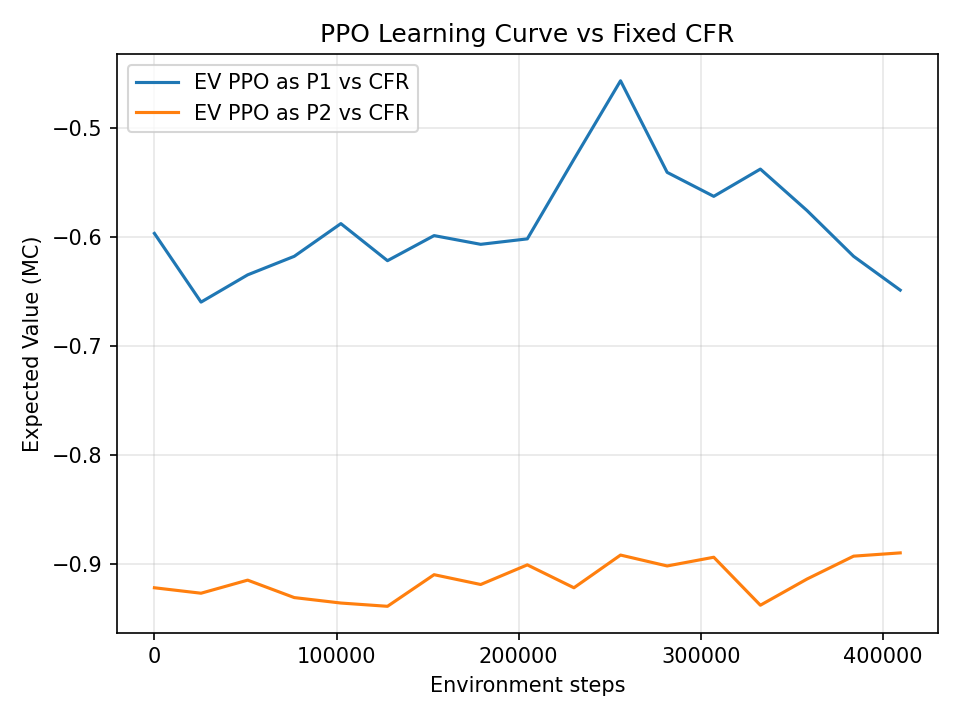
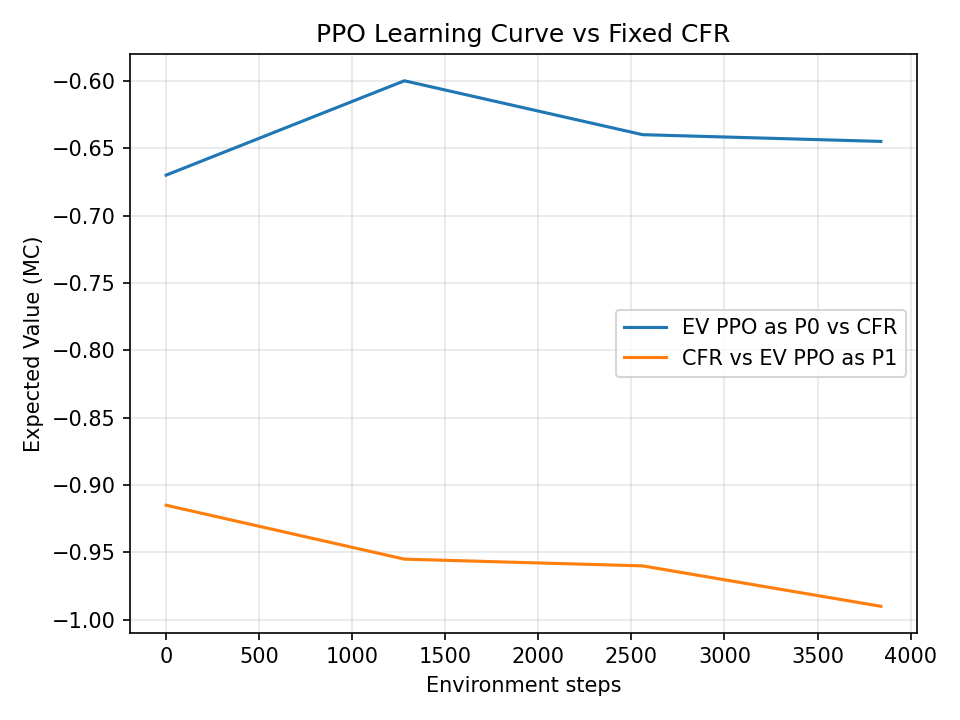
finalize for 2/19

diff --git a/train.py b/train.py
@@ -1,16 +1,58 @@
 # train.py
 # PPO training utilities: rollout collection + PPO update.
+# + Episode trajectory pretty-print (every N episodes)
 
+from __future__ import annotations
+
+from typing import List, Tuple
 import numpy as np
 import torch
 import torch.nn as nn
 
 from config import (
-    ROLLOUT_STEPS, PRINT_EVERY_EPISODES,
-    GAMMA, LAMBDA, CLIP_EPS, VF_COEF, ENT_COEF, MAX_GRAD_NORM,
-    EPOCHS, MINIBATCH
+    ROLLOUT_STEPS,
+    PRINT_EVERY_EPISODES,
+    GAMMA,
+    LAMBDA,
+    CLIP_EPS,
+    VF_COEF,
+    ENT_COEF,
+    MAX_GRAD_NORM,
+    EPOCHS,
+    MINIBATCH,
+    SHOW_TRAJ,
+    SHOW_TRAJ_EVERY_EPISODES,
+    MAX_TRAJ_STEPS_PRINT,
 )
+
 from agents import ActorCritic, masked_softmax
+
+
+# ---------- Trajectory pretty helpers (tic-tac-toe) ----------
+def action_to_rc(action: int) -> Tuple[int, int]:
+    return action // 3, action % 3
+
+
+def pretty_board_from_info_state(info_state_vec: np.ndarray) -> str:
+    """
+    Common OpenSpiel tic_tac_toe information_state_tensor encoding:
+      [X plane (9), O plane (9)]  => total 18
+    """
+    v = np.asarray(info_state_vec, dtype=np.float32).reshape(-1)
+    if v.size >= 18:
+        x = v[:9]
+        o = v[9:18]
+        cells = []
+        for i in range(9):
+            if x[i] > 0.5:
+                cells.append("X")
+            elif o[i] > 0.5:
+                cells.append("O")
+            else:
+                cells.append(".")
+        rows = [" ".join(cells[r * 3 : (r + 1) * 3]) for r in range(3)]
+        return "\n".join(rows)
+    return "<board unavailable>"
 
 
 def collect_rollout(env, model: ActorCritic, act_dim: int, device: str, episode_counter_ref):
@@ -22,12 +64,18 @@ def collect_rollout(env, model: ActorCritic, act_dim: int, device: str, episode_
       act      : [T]
       mask     : [T, act_dim]
       logp_old : [T]
-      ret      : [T]  (GAE returns)
-      adv      : [T]  (normalized advantages)
+      ret      : [T] (GAE returns)
+      adv      : [T] (normalized advantages)
     """
     obs_list, act_list, mask_list = [], [], []
     logp_list, val_list = [], []
     rew_list, done_list = [], []
+
+    # Per-episode buffers for printing one full trajectory
+    ep_actions: List[int] = []
+    ep_players: List[int] = []
+    ep_rewards: List[float] = []
+    ep_states: List[np.ndarray] = []
 
     ts = env.reset()
     steps = 0
@@ -36,12 +84,35 @@ def collect_rollout(env, model: ActorCritic, act_dim: int, device: str, episode_
         # If an episode ended, count it and start a new one.
         if ts.last():
             episode_counter_ref[0] += 1
-            if episode_counter_ref[0] % PRINT_EVERY_EPISODES == 0:
-                print(f"[progress] episodes={episode_counter_ref[0]}")
+            ep = episode_counter_ref[0]
+
+            if ep % PRINT_EVERY_EPISODES == 0:
+                print(f"[progress] episodes={ep}")
+
+            if SHOW_TRAJ and (ep % SHOW_TRAJ_EVERY_EPISODES == 0) and len(ep_actions) > 0:
+                print(f"\n===== Trajectory (episode {ep}) =====")
+                T = min(len(ep_actions), MAX_TRAJ_STEPS_PRINT)
+                for t in range(T):
+                    a = ep_actions[t]
+                    p = ep_players[t]
+                    r = ep_rewards[t]
+                    svec = ep_states[t]
+                    rr, cc = action_to_rc(a)
+                    print(f"\n[t={t}] player={p} action={a} (row={rr}, col={cc}) reward={r:+.1f}")
+                    print(pretty_board_from_info_state(svec))
+                if len(ep_actions) > T:
+                    print(f"\n... (truncated, total steps in episode: {len(ep_actions)})")
+                print("====================================\n")
+
+            ep_actions.clear()
+            ep_players.clear()
+            ep_rewards.clear()
+            ep_states.clear()
+
             ts = env.reset()
             continue
 
-        # Player to act (0 or 1). For tic_tac_toe, no chance nodes expected.
+        # Player to act (0 or 1).
         p = int(ts.observations["current_player"])
         if p < 0:
             ts = env.reset()
@@ -75,12 +146,12 @@ def collect_rollout(env, model: ActorCritic, act_dim: int, device: str, episode_
         action = int(a.item())
         next_ts = env.step([action])
 
-        # Reward for player p (typically only non-zero at terminal in tic_tac_toe)
+        # Reward for player p
         r = 0.0
         if hasattr(next_ts, "rewards") and 0 <= p < len(next_ts.rewards):
             r = float(next_ts.rewards[p])
 
-        # Store transition
+        # Store transition for PPO
         obs_list.append(obs_t)
         mask_list.append(mask_t)
         act_list.append(torch.tensor(action, device=device, dtype=torch.long))
@@ -88,6 +159,12 @@ def collect_rollout(env, model: ActorCritic, act_dim: int, device: str, episode_
         val_list.append(v.squeeze(0))
         rew_list.append(torch.tensor(r, device=device, dtype=torch.float32))
         done_list.append(torch.tensor(float(next_ts.last()), device=device, dtype=torch.float32))
+
+        # Store for episode trajectory printing
+        ep_actions.append(action)
+        ep_players.append(p)
+        ep_rewards.append(r)
+        ep_states.append(obs.copy())
 
         ts = next_ts
         steps += 1
@@ -133,9 +210,7 @@ def collect_rollout(env, model: ActorCritic, act_dim: int, device: str, episode_
 
 
 def ppo_update(model: ActorCritic, optimizer, batch):
-    """
-    PPO clipped objective update.
-    """
+    """PPO clipped objective update."""
     obs, act, mask, logp_old, ret, adv = batch
     T = obs.shape[0]
     idxs = np.arange(T)
@@ -143,7 +218,7 @@ def ppo_update(model: ActorCritic, optimizer, batch):
     for _ in range(EPOCHS):
         np.random.shuffle(idxs)
         for start in range(0, T, MINIBATCH):
-            mb = idxs[start:start + MINIBATCH]
+            mb = idxs[start : start + MINIBATCH]
 
             logits, v = model(obs[mb])
             probs = masked_softmax(logits, mask[mb])

diff --git a/config.py b/config.py
@@ -13,22 +13,27 @@ GAMMA = 0.99
 LAMBDA = 0.95
 CLIP_EPS = 0.2
 VF_COEF = 0.5
-ENT_COEF = 0.001
-LR = 1e-4
+ENT_COEF = 0.01
+LR = 3e-4
 MAX_GRAD_NORM = 0.5
 
-# Training schedule
-ROLLOUT_STEPS = 512
-NUM_UPDATES = 800
-EPOCHS = 2
-MINIBATCH = 256
+# Training schedule (FAST)
+ROLLOUT_STEPS = 128        # was 512
+NUM_UPDATES = 30           # was 800
+EPOCHS = 1                 # was 2
+MINIBATCH = 128            # was 256
 
-# Opponent + evaluation
-CFR_ITERS = 50
-EVAL_EVERY_UPDATES = 50
-EVAL_GAMES = 1000
+# Opponent + evaluation (FAST)
+CFR_ITERS = 200            # was 50 (tictactoe는 200 정도면 충분히 강함)
+EVAL_EVERY_UPDATES = 10    # was 50
+EVAL_GAMES = 200           # was 1000 (MC eval이 시간 많이 잡아먹음)
 
 # Logging / plotting
-PRINT_EVERY_EPISODES = 5000
+PRINT_EVERY_EPISODES = 1000
 LOG_CSV = "ppo_log.csv"
 PLOT_PNG = "ppo_learning_curve.png"
+
+# Trajectory debug view
+SHOW_TRAJ = True
+SHOW_TRAJ_EVERY_EPISODES = 1000
+MAX_TRAJ_STEPS_PRINT = 20

diff --git a/main.py b/main.py
@@ -125,7 +125,7 @@ def main():
     # -------------------------------------------------
     plt.figure()
     plt.plot(history_steps, history_ev_p0, label="EV PPO as P0 vs CFR")
-    plt.plot(history_steps, history_ev_p1, label="EV PPO as P1 vs CFR")
+    plt.plot(history_steps, history_ev_p1, label="CFR vs EV PPO as P1")
     plt.xlabel("Environment steps")
     plt.ylabel("Expected Value (MC)")
     plt.title("PPO Learning Curve vs Fixed CFR")
